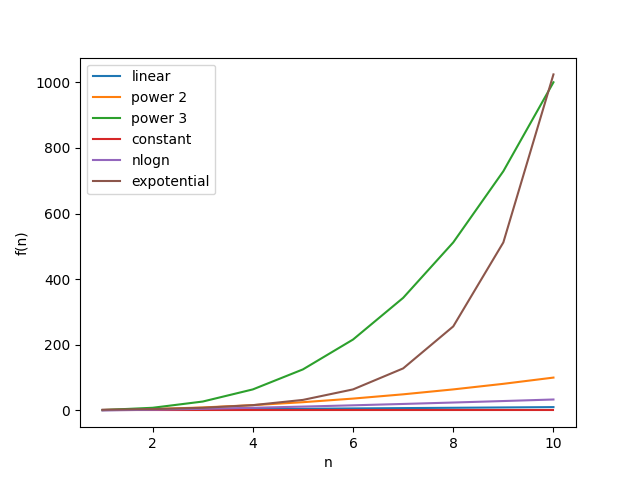
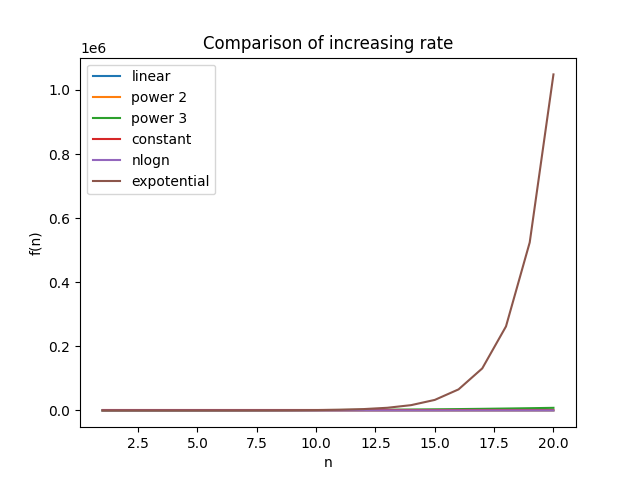
fix

diff --git a/Data Structre and Algorithm/Complexity/different_function.py b/Data Structre and Algorithm/Complexity/different_function.py
@@ -2,12 +2,12 @@ import random
 import matplotlib.pyplot as plt
 import numpy as np
 
-number=np.linspace(1,10,10)
+number=np.linspace(1,20,20)
 
 x1=number
 x2=np.power(number,2)
 x3=np.power(number,3)
-x4=np.ones(10)
+x4=np.ones(20)
 x5=np.multiply(np.log2(number),number)
 x6=np.power(2,number)
 
